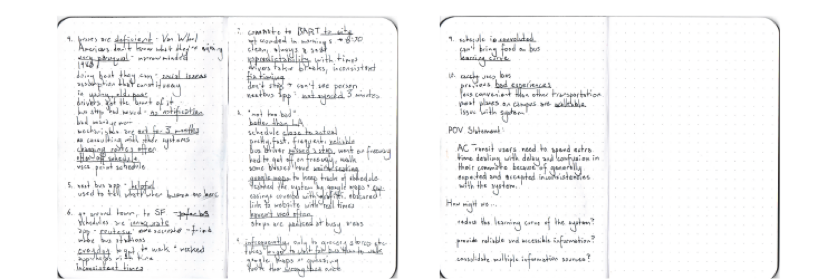
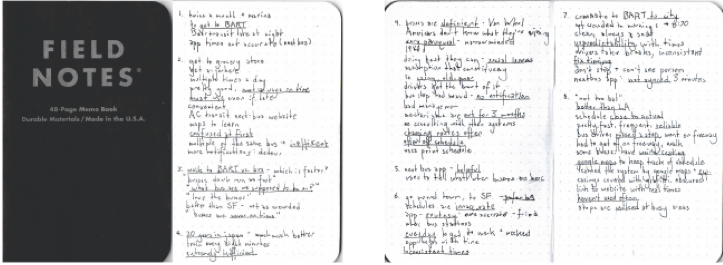
standardized most images

diff --git a/html/projects/sdj.html b/html/projects/sdj.html
@@ -43,9 +43,13 @@
             <span class="project-header-italic">MUSIC TRACK SORTING</span>
           </td>
           <td style="float: right">
-            <a style="color:black" href="/html/projects/egb.html"><span class="fas fa-chevron-left project-nav"></span></a>
+            <a style="color:black" href="/html/projects/egb.html">
+              <span class="fas fa-chevron-left project-nav"></span>
+            </a>
             &emsp;
-            <a style="color:black" href="/html/projects/transit.html"><span class="fas fa-chevron-right project-nav"></span></a>
+            <a style="color:black" href="/html/projects/transit.html">
+              <span class="fas fa-chevron-right project-nav"></span>
+            </a>
           </td>
         </tr>
       </table>
@@ -58,10 +62,11 @@
       <table class="project-table" width=100%>
         <tr>
           <td class="left">
-              While planning music for a dance party a few summers ago, I hit a roadblock - I had no idea how quickly
-              music would speed up or slow down, nor what music should play relative to each moment in the party. At
-              CalHacks 3.0, I hacked together an initial data visualization prototype to address this. Users can import
-              their playlists and see various visualizations of their playlist.          </td>
+            While planning music for a dance party a few summers ago, I hit a roadblock - I had no idea how quickly music would speed
+            up or slow down, nor what music should play relative to each moment in the party. At CalHacks 3.0, I hacked together
+            an initial data visualization prototype to address this. Users can import their playlists and see various visualizations
+            of their playlist.
+          </td>
           <td class="right">
             <strong>Tools: </strong>Pen + Paper, Adobe XD
           </td>
@@ -70,8 +75,8 @@
           <td class="left">
             <span class="project-content-header">IDEATION</span>
             <span class="project-content-p">
-                We considered many ideas, and the main struggle was on how much control to give to the user vs operations
-                done by a  machine or algorithm.
+              We considered many ideas, and the main struggle was on how much control to give to the user vs operations done by a machine
+              or algorithm.
             </span>
           </td>
           <td class="right">
@@ -82,46 +87,45 @@
           <td class="left">
             <span class="project-content-header">CONCEPT SKETCHES</span>
             <span class="project-content-p">
-                We eventually finalized on emphasizing visualizations of existing playlists, the ability to control from
-                afar when the songs should crossfade, and an algorithm to automatically sort songs in the optimal order
-                for a party. We sketched what the mobile and web controls would look like and made a user flow.
-                divided in to main screens: see playlist, add song, organize.
+              We eventually finalized on emphasizing visualizations of existing playlists, the ability to control from afar when the songs
+              should crossfade, and an algorithm to automatically sort songs in the optimal order for a party. We sketched
+              what the mobile and web controls would look like and made a user flow. divided in to main screens: see playlist,
+              add song, organize.
             </span>
           </td>
           <td class="right">
-            <img src="/assets/img/sdj/Concept Sketches/concept-sketch-1.jpg" width="49%" alt="">
-            <img src="/assets/img/sdj/Concept Sketches/concept-sketch-2.jpg" width="49%" alt="">
+            <img src="/assets/img/sdj/Concept Sketches/concept-sketch-1.jpg" width="57.2%" alt="">
+            <img src="/assets/img/sdj/Concept Sketches/concept-sketch-2.jpg" width="41.7%" alt="">
           </td>
         </tr>
         <tr>
           <td class="left">
             <span class="project-content-header">WIREFRAMES</span>
             <span class="project-content-p">
-                We made initial wireframes to explore placement of content, new user experience, and user interactions.
-                Focus on seeing playlist, add song, organize.
+              We made initial wireframes to explore placement of content, new user experience, and user interactions. Focus on seeing playlist,
+              add song, organize.
             </span>
           </td>
           <td class="right">
-            <img src="/assets/img/sdj/v7 Screens/288ppi/Default Page.png" width="20%" alt="">
-            <img src="/assets/img/sdj/v7 Screens/288ppi/Default Page copy 3.png" width="20%" alt="">
-            <img src="/assets/img/sdj/v7 Screens/288ppi/Default Page copy 8.png" width="20%" alt="">
+            <img src="/assets/img/sdj/v7 Screens/288ppi/Default Page.png" width="32%" alt="">
+            <img src="/assets/img/sdj/v7 Screens/288ppi/Default Page copy 3.png" width="32%" alt="">
+            <img src="/assets/img/sdj/v7 Screens/288ppi/Default Page copy 8.png" width="32%" alt="">
           </td>
         </tr>
         <tr>
           <td class="left">
             <span class="project-content-header">FINAL PROTOTYPE</span>
             <span class="project-content-p">
-                We then went to a final prototype, which you can try out below! We also added a mobile component for
-                controlling the playlist from afar. Focus on onboarding, button interactions, controlling after you
-                set an order.
+              We then went to a final prototype, which you can try out below! We also added a mobile component for controlling the playlist
+              from afar. Focus on onboarding, button interactions, controlling after you set an order.
             </span>
           </td>
-          <td class="right">
-              <img src="/assets/img/sdj/Smartphone Control Screen/288ppi/Artboard 1.png" width="20%" alt="">
-              <img src="/assets/img/sdj/v7 Screens/288ppi/Default Page copy 10.png" width="20%" alt="">
-              <img src="/assets/img/sdj/v7 Screens/288ppi/Default Page copy 6.png" width="20%" alt="">
-              <img src="/assets/img/sdj/v7 Screens/288ppi/Default Page copy 9.png" width="20%" alt="">
-            </td>
+          <td class="right" style="vertical-align: top">
+            <img src="/assets/img/sdj/v7 Screens/288ppi/Default Page copy 10.png" width="49%" alt="">
+            <img src="/assets/img/sdj/v7 Screens/288ppi/Default Page copy 6.png" width="49%" alt="">
+            <img src="/assets/img/sdj/v7 Screens/288ppi/Default Page copy 9.png" width="49%" alt="">
+            <img src="/assets/img/sdj/Smartphone Control Screen/288ppi/Artboard 1.png" width="22%" alt="">
+          </td>
         </tr>
       </table>
     </div>

diff --git a/html/projects/transit.html b/html/projects/transit.html
@@ -80,7 +80,7 @@
             </span>
           </td>
           <td class="right">
-            <img src="/assets/img/transit/user-interview-notes.png" width="100%" alt="">
+            <img src="/assets/img/transit/user-interview-notes-2.png" width="100%" alt="">
           </td>
         </tr>
         <tr>
@@ -94,8 +94,7 @@
             </span>
           </td>
           <td class="right">
-            <img src="/assets/img/transit/concept-sketch.png" width="49%" alt="">
-            <img src="/assets/img/transit/concept-sketch.png" width="49%" alt="">
+            <img src="/assets/img/transit/concept-sketch.png" width="50%" alt="">
           </td>
         </tr>
         <tr>
@@ -109,7 +108,7 @@
             </span>
           </td>
           <td class="right">
-            <img src="/assets/img/transit/user-flow.jpg" width="79%" alt="">
+            <img src="/assets/img/transit/user-flow-3.jpg" width="79%" alt="">
             <img src="/assets/img/transit/user-flow-2.jpg" width="20%" alt="">
           </td>
         </tr>
@@ -130,8 +129,8 @@
             </span>
           </td>
           <td class="right">
-            <img src="/assets/img/transit/low-fidelity-1.png" width="300" alt="">
-            <img src="/assets/img/transit/low-fidelity-2.png" width="300" alt="">
+            <img src="/assets/img/transit/low-fidelity-1.png" width="49%" alt="">
+            <img src="/assets/img/transit/low-fidelity-2.png" width="49%" alt="">
           </td>
         </tr>
         <tr>
@@ -145,7 +144,7 @@
             </span>
           </td>
           <td class="right">
-            <img src="/assets/img/transit/medium-fidelity.png" width="300" alt="">
+            <img src="/assets/img/transit/medium-fidelity.png" width="100%" alt="">
           </td>
         </tr>
         <tr>
@@ -161,7 +160,7 @@
             </span>
           </td>
           <td class="right">
-            <img src="/assets/img/transit/affinity-map.png" width="300" alt="">
+            <img src="/assets/img/transit/affinity-map.png" width="100%" alt="">
           </td>
         </tr>
         <tr>
@@ -199,11 +198,11 @@
             </div>
           </td>
           <td class="right">
-            <img src="/assets/img/transit/transit-v4-screens/Beginning.png" width="300" alt="">
-            <img src="/assets/img/transit/transit-v4-screens/Tap Your Start Point.png" width="300" alt="">
-            <img src="/assets/img/transit/transit-v4-screens/Tap Your Destination.png" width="300" alt="">
-            <img src="/assets/img/transit/transit-v4-screens/All Routes.png" width="300" alt="">
-            <img src="/assets/img/transit/mockup.gif" width="300" alt="">
+            <img src="/assets/img/transit/transit-v4-screens/Beginning.png" width="49%" alt="">
+            <img src="/assets/img/transit/transit-v4-screens/Tap Your Start Point.png" width="49%" alt="">
+            <img src="/assets/img/transit/transit-v4-screens/Tap Your Destination.png" width="49%" alt="">
+            <img src="/assets/img/transit/transit-v4-screens/All Routes.png" width="49%" alt="">
+            <img src="/assets/img/transit/mockup.gif" width="100%" alt="">
           </td>
         </tr>
       </table>

diff --git a/html/projects/egb.html b/html/projects/egb.html
@@ -78,7 +78,7 @@
             </span>
           </td>
           <td class="right">
-            <img src="/assets/img/egb/Project-Portfolio Images/Project-Portfolio Ready/Project-Portfolio Ready.002.jpeg" width="100%" alt="">
+            <img src="/assets/img/egb/Project-Portfolio Images/Project-Portfolio Ready/Project-Portfolio Ready.002-2.jpeg" width="100%" alt="">
           </td>
         </tr>
         <tr>
@@ -90,21 +90,20 @@
             </span>
           </td>
           <td class="right">
-            <img src="/assets/img/egb/Project-Portfolio Images/Project-Portfolio Ready/Project-Portfolio Ready.003.jpeg" width="49%" alt="">
+            <img src="/assets/img/egb/Project-Portfolio Images/Project-Portfolio Ready/Project-Portfolio Ready.003-2.jpeg" width="100%" alt="">
           </td>
         </tr>
         <tr>
           <td class="left">
             <span class="project-content-header">DISPLAY DESIGN</span>
             <span class="project-content-p">
-              *REMOVE IPAD*
               Then, we went to designing a display that would sit on the gym bike like any other gym bike. We placed
               careful thought on what statistics were on the display, and emphasized more statistics on environmental
               impact, and less on typical calories burned and other workout numbers.
             </span>
           </td>
           <td class="right">
-            <img src="/assets/img/egb/Project-Portfolio Images/Project-Portfolio Ready/Project-Portfolio Ready.004.jpeg" width="79%" alt="">
+            <img src="/assets/img/egb/Project-Portfolio Images/Project-Portfolio Ready/Project-Portfolio Ready.004-2.jpeg" width="100%" alt="">
           </td>
         </tr>
         <tr>
@@ -115,7 +114,7 @@
             </span>
           </td>
           <td class="right">
-            <img src="/assets/img/egb/Project-Portfolio Images/Project-Portfolio Ready/Project-Portfolio Ready.005.jpeg" width="300" alt="">
+            <img src="/assets/img/egb/Project-Portfolio Images/Project-Portfolio Ready/Project-Portfolio Ready.005-2.jpeg" width="100%" alt="">
           </td>
         </tr>
         <tr>
